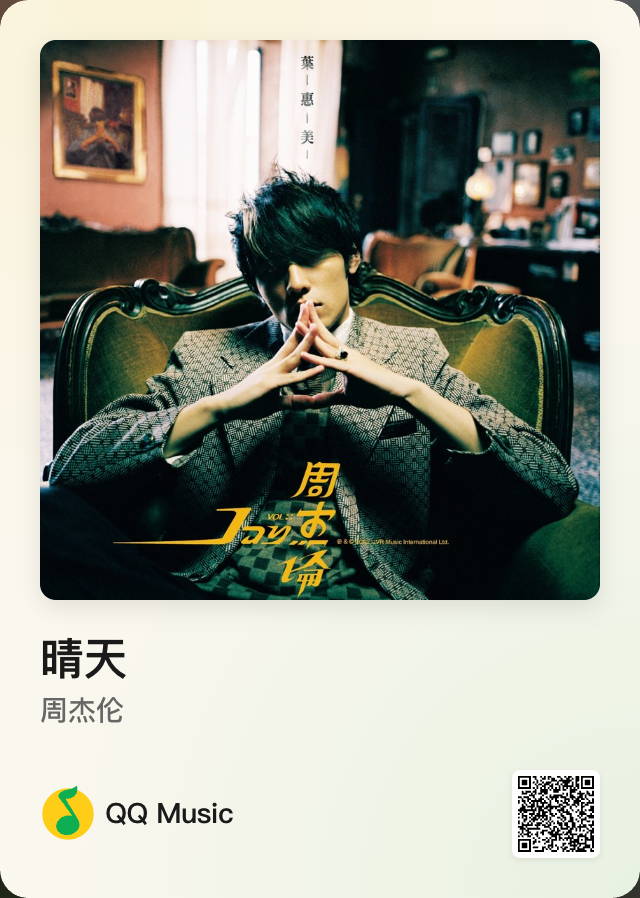
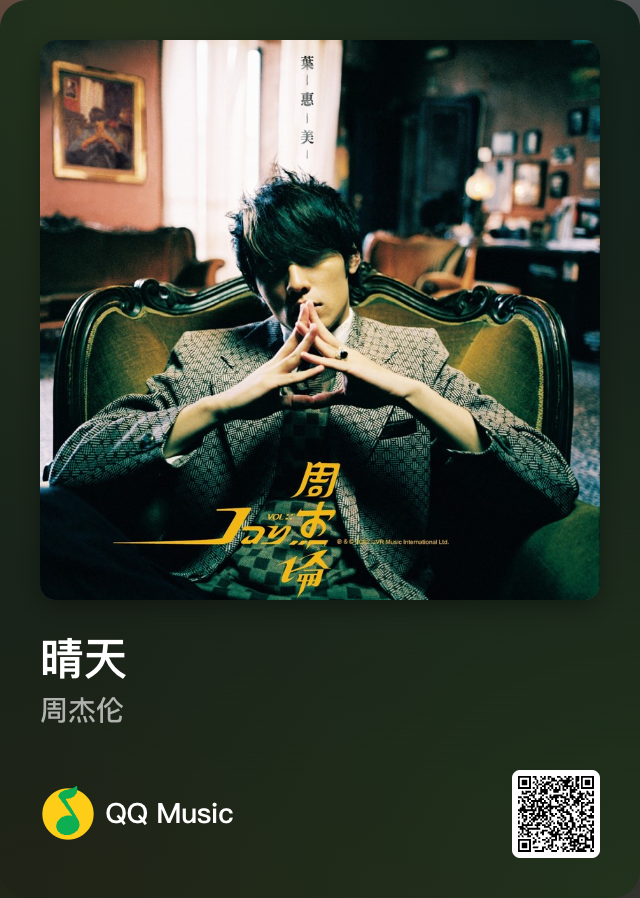
feat(qq-card): dynamic cover-tinted palette instead of cream slab
Cream background read as "blank/惨白" — neither editorial like
Apple's nor expressive like NetEase's. Switch to the same trick
NeteaseCard uses: extractCoverPalette from the album art, darken to
gradient stops, paint a 165° linear gradient between them. Now each
song lands on its own moody hue (Jay Chou's 叶惠美 stays warm-brown,
something pastel-cover would land softer, etc.) without ever flipping
to pure black or pure white. Logo flips to white wordmark for the
new dark surface; yellow/green disc is untouched.

diff --git a/src/components/QqMusicCard.module.css b/src/components/QqMusicCard.module.css
@@ -1,14 +1,15 @@
-/* QQ Music card — warm cream background pairing with the brand's
-   official yellow/green logo. Mirrors SpotifyCard's 320px geometry so
-   the shelf and export sizes line up across platforms. */
+/* QQ Music card — cover-tinted dynamic backdrop (NeteaseCard-style).
+   Background gradient comes from `--qq-primary` / `--qq-secondary`
+   set inline from the extracted album-art palette. Geometry matches
+   the other 320px share cards. */
 
 .card {
   width: calc(320px * var(--s, 1));
   background:
-    radial-gradient(circle at 20% 0%, rgba(253, 205, 24, 0.10) 0%, transparent 55%),
-    radial-gradient(circle at 100% 100%, rgba(13, 175, 82, 0.08) 0%, transparent 55%),
-    #FAF7EE;
-  color: #1A1A1A;
+    radial-gradient(circle at 18% 0%, rgba(253, 205, 24, 0.10) 0%, transparent 55%),
+    radial-gradient(circle at 100% 100%, rgba(13, 175, 82, 0.10) 0%, transparent 55%),
+    linear-gradient(165deg, var(--qq-primary, #2a2a2a) 0%, var(--qq-secondary, #141414) 100%);
+  color: #ffffff;
   display: flex;
   flex-direction: column;
   padding: calc(20px * var(--s, 1));
@@ -16,7 +17,7 @@
   overflow: hidden;
   box-sizing: border-box;
   font-family: -apple-system, BlinkMacSystemFont, 'PingFang SC', 'Helvetica Neue', sans-serif;
-  box-shadow: 0 calc(20px * var(--s, 1)) calc(48px * var(--s, 1)) rgba(0, 0, 0, 0.18);
+  box-shadow: 0 calc(20px * var(--s, 1)) calc(48px * var(--s, 1)) rgba(0, 0, 0, 0.45);
 }
 
 /* ─── Cover ────────────────────────────────────────────────────────── */
@@ -27,10 +28,10 @@
   aspect-ratio: 1 / 1;
   border-radius: calc(8px * var(--s, 1));
   overflow: hidden;
-  background: rgba(0, 0, 0, 0.04);
+  background: rgba(255, 255, 255, 0.04);
   box-shadow:
-    inset 0 0 0 calc(1px * var(--s, 1)) rgba(0, 0, 0, 0.06),
-    0 calc(4px * var(--s, 1)) calc(12px * var(--s, 1)) rgba(0, 0, 0, 0.10);
+    inset 0 0 0 calc(1px * var(--s, 1)) rgba(255, 255, 255, 0.08),
+    0 calc(4px * var(--s, 1)) calc(12px * var(--s, 1)) rgba(0, 0, 0, 0.35);
 }
 
 .cover {
@@ -53,7 +54,7 @@
   font-weight: 700;
   line-height: 1.2;
   letter-spacing: calc(-0.3px * var(--s, 1));
-  color: #1A1A1A;
+  color: #ffffff;
   margin: 0;
   display: -webkit-box;
   -webkit-line-clamp: 2;
@@ -65,7 +66,7 @@
 .artist {
   font-size: calc(14px * var(--s, 1));
   font-weight: 500;
-  color: #666666;
+  color: rgba(255, 255, 255, 0.65);
   margin: 0;
   white-space: nowrap;
   overflow: hidden;
@@ -80,7 +81,7 @@
   flex-direction: column;
   gap: calc(6px * var(--s, 1));
   padding: calc(14px * var(--s, 1)) calc(16px * var(--s, 1));
-  background: rgba(255, 255, 255, 0.6);
+  background: rgba(255, 255, 255, 0.06);
   border-left: calc(3px * var(--s, 1)) solid #0DAF52;
   border-radius: calc(4px * var(--s, 1));
 }
@@ -89,7 +90,7 @@
   font-size: calc(13px * var(--s, 1));
   font-weight: 500;
   line-height: 1.45;
-  color: #1A1A1A;
+  color: rgba(255, 255, 255, 0.92);
   margin: 0;
   display: -webkit-box;
   -webkit-line-clamp: 2;
@@ -128,7 +129,6 @@
   border-radius: calc(4px * var(--s, 1));
   padding: calc(3px * var(--s, 1));
   box-sizing: border-box;
-  box-shadow: 0 calc(1px * var(--s, 1)) calc(3px * var(--s, 1)) rgba(0, 0, 0, 0.08);
 }
 
 .qr svg {

diff --git a/src/assets/icons.ts b/src/assets/icons.ts
@@ -21,7 +21,6 @@ export const appleMusicLockup = `<svg xmlns="http://www.w3.org/2000/svg" viewBox
 
 // QQ Music 2023 brand lockup — official yellow disc + green note glyph
 // (from Wikimedia Commons File:QQ_Music2023.svg, public-domain per
-// W3C "not original enough" threshold) paired with a "QQ Music"
-// wordmark in near-black for use on the light card background.
-// viewBox 240x48 ≈ 5:1.
-export const qqMusicLockup = `<svg xmlns="http://www.w3.org/2000/svg" viewBox="0 0 240 48"><circle cx="24" cy="24" r="22" fill="#FDCD18"/><path d="M27.6 25.5c-.55-.78-1.07-1.5-1.6-2.22-2.01-2.78-4.02-5.56-6.04-8.33-1.28-1.76-2.55-3.53-3.85-5.27-.39-.52-.44-1.07-.26-1.67.36-1.24 1.23-2.1 2.26-2.81 1.88-1.3 3.99-1.96 6.21-2.35 1.93-.34 3.85-.75 5.53-1.81.46-.29.84-.68 1.26-1.03.11-.09.21-.2.43-.38.14.68.28 1.25.37 1.82.28 1.68.18 3.31-.58 4.86-1.03 2.09-2.71 3.4-4.91 4.07-1.34.43-2.74.53-4.14.52-.1 0-.21.03-.38.05.35.6.65 1.17.99 1.73 1.35 2.21 2.7 4.42 4.05 6.64l4.42 7.33c.38.63.78 1.27 1.16 1.91.87 1.49 1.5 3.05 1.38 4.84-.12 1.75-.76 3.28-1.85 4.62-1.78 2.19-4.09 3.46-6.86 3.95-2.6.46-5.08.17-7.39-1.15-2.59-1.47-4.25-4.15-3.86-7.34.25-2.1 1.3-3.83 2.83-5.26 1.64-1.51 3.59-2.43 5.76-2.85 1.61-.32 3.21-.3 4.79.13.05.01.1-.01.24-.01z" fill="#0DAF52"/><text x="56" y="32" font-family="-apple-system, 'PingFang SC', 'Helvetica Neue', sans-serif" font-size="24" font-weight="700" fill="#1A1A1A" letter-spacing="-0.5">QQ Music</text></svg>`;
+// W3C "not original enough" threshold) paired with a white "QQ Music"
+// wordmark for the dark cover-tinted card surface. viewBox 240x48.
+export const qqMusicLockup = `<svg xmlns="http://www.w3.org/2000/svg" viewBox="0 0 240 48"><circle cx="24" cy="24" r="22" fill="#FDCD18"/><path d="M27.6 25.5c-.55-.78-1.07-1.5-1.6-2.22-2.01-2.78-4.02-5.56-6.04-8.33-1.28-1.76-2.55-3.53-3.85-5.27-.39-.52-.44-1.07-.26-1.67.36-1.24 1.23-2.1 2.26-2.81 1.88-1.3 3.99-1.96 6.21-2.35 1.93-.34 3.85-.75 5.53-1.81.46-.29.84-.68 1.26-1.03.11-.09.21-.2.43-.38.14.68.28 1.25.37 1.82.28 1.68.18 3.31-.58 4.86-1.03 2.09-2.71 3.4-4.91 4.07-1.34.43-2.74.53-4.14.52-.1 0-.21.03-.38.05.35.6.65 1.17.99 1.73 1.35 2.21 2.7 4.42 4.05 6.64l4.42 7.33c.38.63.78 1.27 1.16 1.91.87 1.49 1.5 3.05 1.38 4.84-.12 1.75-.76 3.28-1.85 4.62-1.78 2.19-4.09 3.46-6.86 3.95-2.6.46-5.08.17-7.39-1.15-2.59-1.47-4.25-4.15-3.86-7.34.25-2.1 1.3-3.83 2.83-5.26 1.64-1.51 3.59-2.43 5.76-2.85 1.61-.32 3.21-.3 4.79.13.05.01.1-.01.24-.01z" fill="#0DAF52"/><text x="56" y="32" font-family="-apple-system, 'PingFang SC', 'Helvetica Neue', sans-serif" font-size="24" font-weight="700" fill="#FFFFFF" letter-spacing="-0.5">QQ Music</text></svg>`;

diff --git a/src/components/QqMusicCard.tsx b/src/components/QqMusicCard.tsx
@@ -1,6 +1,11 @@
-import { forwardRef } from 'react';
+import { forwardRef, useEffect, useState, type CSSProperties } from 'react';
 import styles from './QqMusicCard.module.css';
 import { qqMusicLockup } from '../assets/icons';
+import {
+  extractCoverPalette,
+  darken,
+  type ExtractedPalette,
+} from '../lib/colorExtraction';
 
 type Props = {
   title: string;
@@ -10,15 +15,41 @@ type Props = {
   lyrics?: string[];
 };
 
-/* QQ Music share card — deep forest green gradient, white type, brand-
-   green accent on the lyric rail. Cover sits in a glossy rounded frame.
-   Same 320px geometry as the other variants so the shelf preview and
-   the exported PNG land at consistent sizes. */
+/* Cover-tinted backdrop — same trick as NeteaseCard. The QQ brand glyph
+   keeps its official yellow/green, but the surrounding card pulls a
+   moody gradient out of the album art so each song lands somewhere
+   between "all-white slab" and "one solid dark blob". */
+const FALLBACK_PALETTE: ExtractedPalette = {
+  primary: '#3a3a3a',
+  secondary: '#1a1a1a',
+};
+
 const QqMusicCard = forwardRef<HTMLDivElement, Props>(
   ({ title, artist, coverUrl, qrSvg, lyrics }, ref) => {
     const hasLyrics = lyrics && lyrics.length > 0;
+    const [palette, setPalette] = useState<ExtractedPalette>(FALLBACK_PALETTE);
+
+    useEffect(() => {
+      if (!coverUrl) return;
+      let cancelled = false;
+      extractCoverPalette(coverUrl).then((p) => {
+        if (!cancelled) setPalette(p);
+      });
+      return () => {
+        cancelled = true;
+      };
+    }, [coverUrl]);
+
+    /* darken(0.30/0.55) lands the gradient in editorial territory —
+       saturated enough to read the cover's mood, dark enough that
+       white type sits comfortably on top. */
+    const cardStyle: CSSProperties = {
+      ['--qq-primary' as string]: darken(palette.primary, 0.30),
+      ['--qq-secondary' as string]: darken(palette.secondary, 0.55),
+    };
+
     return (
-      <div ref={ref} className={styles.card}>
+      <div ref={ref} className={styles.card} style={cardStyle}>
         <div className={styles.coverWrap}>
           <img
             src={coverUrl}

diff --git a/src/components/CardSkeleton.module.css b/src/components/CardSkeleton.module.css
@@ -62,18 +62,6 @@
 .cardQq {
   padding: 20px;
   gap: 16px;
-  background: #FAF7EE;
-  border: 1px solid rgba(0, 0, 0, 0.06);
-}
-
-/* QQ skeleton sits on a cream background, so its placeholders need a
-   darker shimmer tint than the dark-bg variants. */
-.cardQq .coverSquare,
-.cardQq .titleBar,
-.cardQq .artistBar,
-.cardQq .brandQq,
-.cardQq .qr {
-  background: rgba(0, 0, 0, 0.06);
 }
 
 /* ─── Cover slots ──────────────────────────────────────────────────── */
